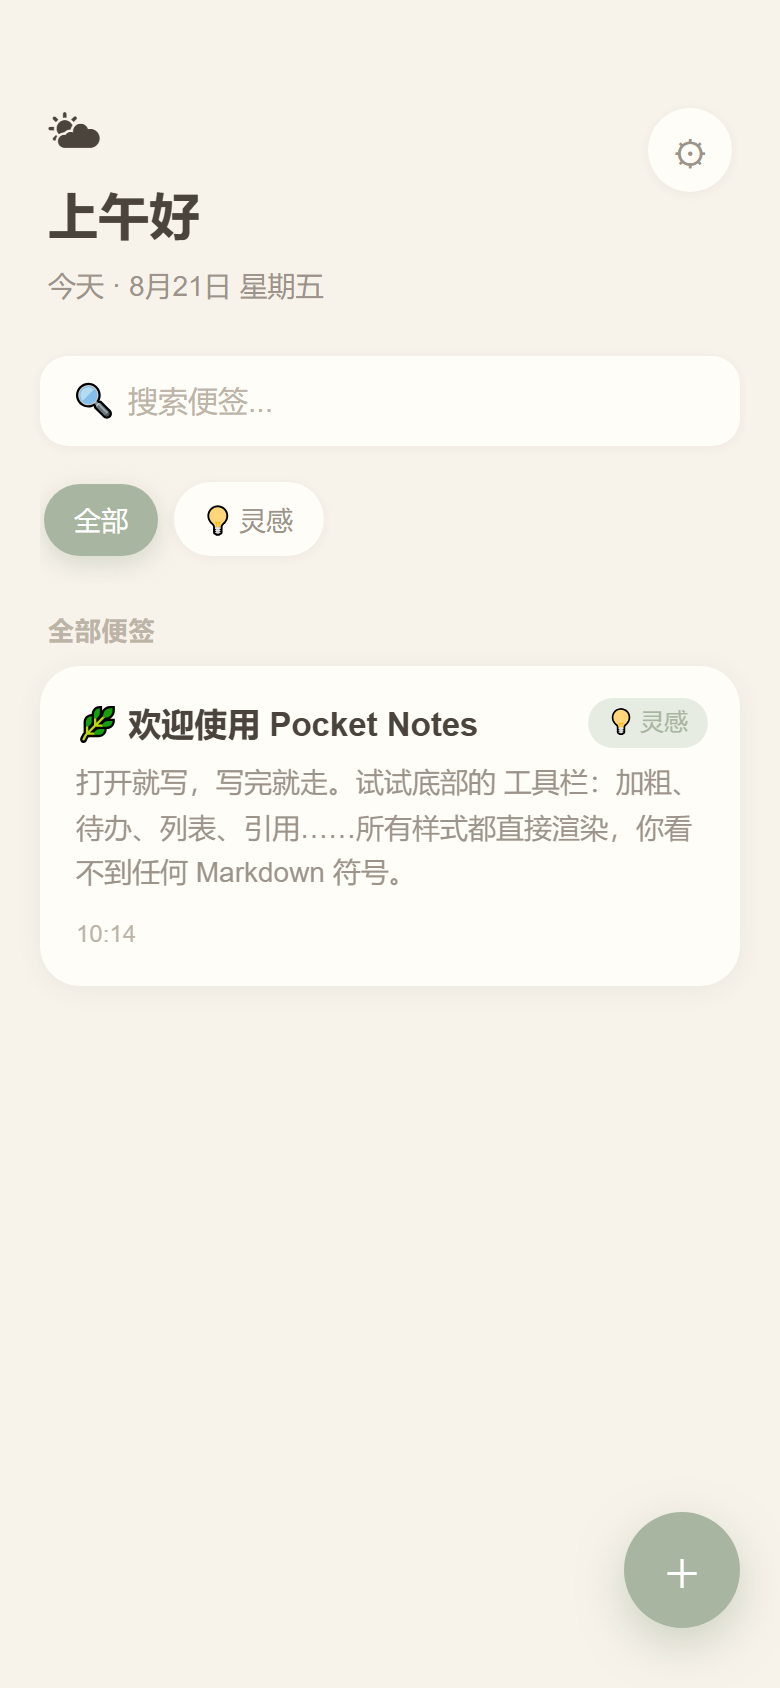
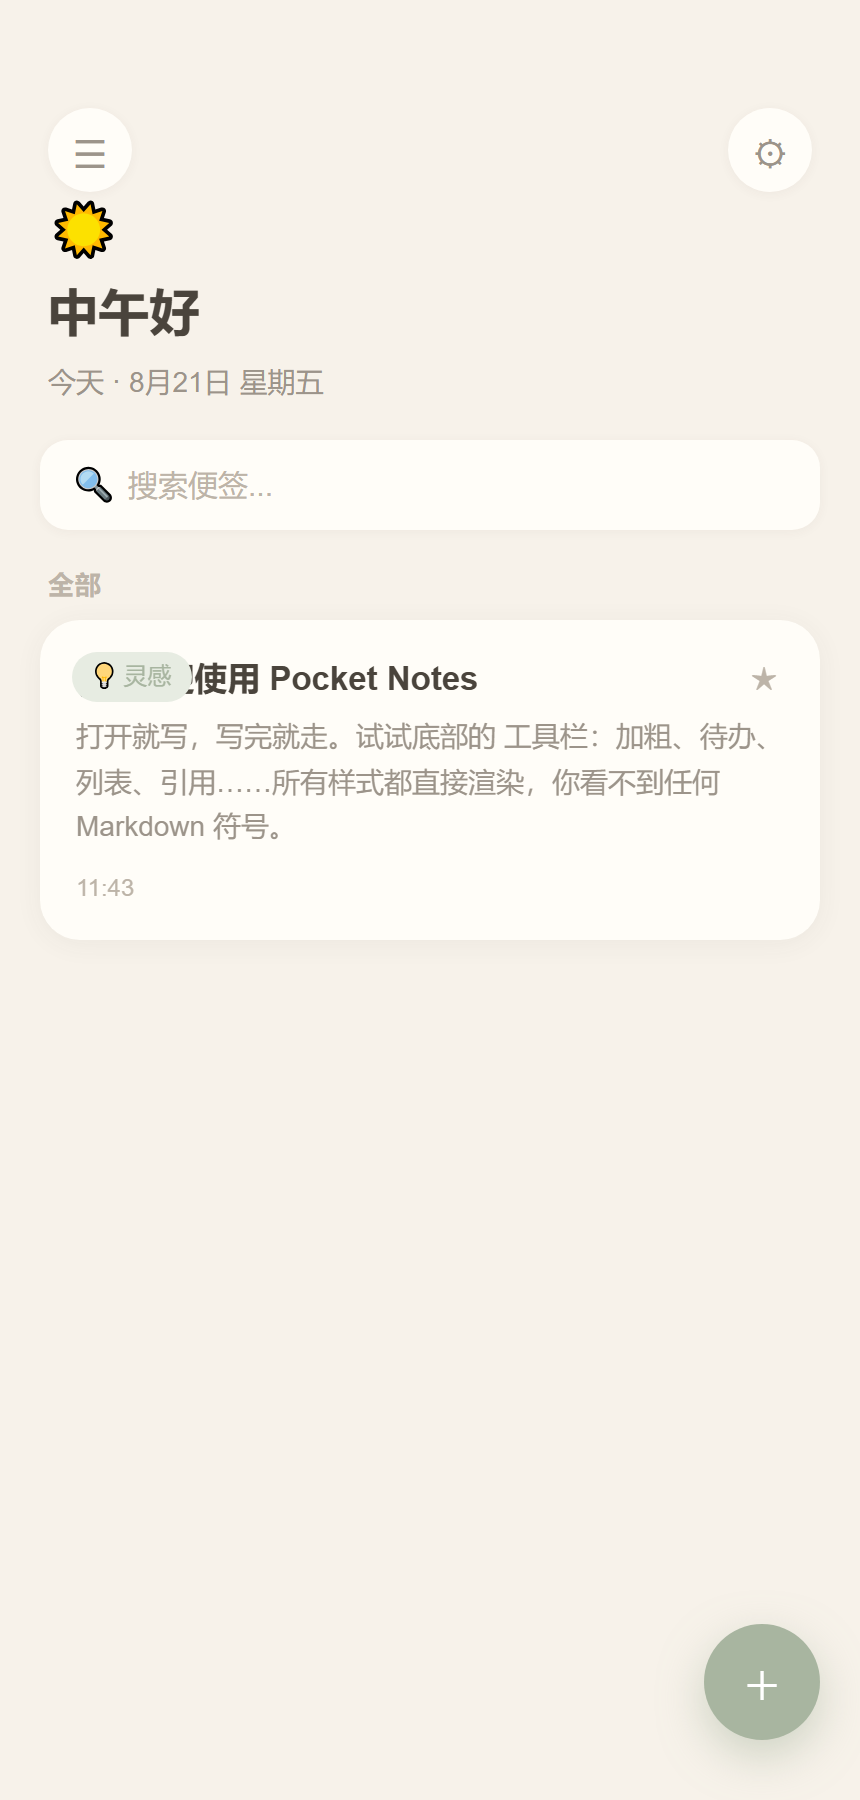
feat: 侧边栏分组 + 标签失焦自动保存 + 收藏功能

diff --git a/index.html b/index.html
@@ -85,16 +85,35 @@
   .search .mag{position:absolute;left:16px;top:50%;transform:translateY(-50%);
     color:var(--text-3);font-size:16px;}
 
-  .tags{display:flex;align-items:center;gap:8px;overflow-x:auto;overflow-y:hidden;
-    padding:14px 2px;min-height:46px;flex-wrap:nowrap;scrollbar-width:none;
-    -webkit-overflow-scrolling:touch;}
-  .tags::-webkit-scrollbar{display:none;}
-  .tag-chip{flex:0 0 auto;border:none;background:var(--surface);color:var(--text-2);
-    padding:9px 15px;border-radius:999px;font-size:13.5px;box-shadow:var(--shadow-soft);
-    display:flex;align-items:center;gap:6px;white-space:nowrap;
-    transition:all var(--dur) var(--ease);}
-  .tag-chip:active{transform:scale(.94);}
-  .tag-chip.on{background:var(--accent);color:#fff;box-shadow:0 4px 12px rgba(168,181,160,.4);}
+  /* ---------- 侧边栏 ---------- */
+  .sidebar{position:absolute;left:0;top:0;bottom:0;width:260px;max-width:80vw;background:var(--surface);z-index:200;
+    transform:translateX(-110%);transition:transform var(--dur) var(--ease);box-shadow:4px 0 24px rgba(0,0,0,.08);
+    display:flex;flex-direction:column;padding:50px 16px 24px;-webkit-overflow-scrolling:touch;}
+  .sidebar.open{transform:none;}
+  .sb-overlay{position:absolute;inset:0;background:rgba(0,0,0,.18);z-index:199;opacity:0;pointer-events:none;transition:opacity var(--dur);}
+  .sb-overlay.open{opacity:1;pointer-events:auto;}
+  .sb-head{display:flex;align-items:center;gap:12px;margin-bottom:22px;padding:0 4px;}
+  .sb-icon{width:42px;height:42px;border-radius:12px;background:var(--bg);display:flex;align-items:center;justify-content:center;font-size:22px;box-shadow:var(--shadow-soft);}
+  .sb-title{font-size:17px;font-weight:700;color:var(--text);}
+  .sb-sub{font-size:12px;color:var(--text-3);margin-top:2px;}
+  .sb-section-title{font-size:11px;color:var(--text-3);font-weight:600;letter-spacing:.6px;text-transform:uppercase;margin:18px 4px 8px;}
+  .sb-groups{display:flex;flex-direction:column;gap:3px;flex-shrink:0;max-height:45%;overflow-y:auto;}
+  .sb-groups::-webkit-scrollbar{display:none;}
+  .sb-group{display:flex;align-items:center;gap:12px;padding:10px 12px;border-radius:12px;cursor:pointer;transition:all var(--dur) var(--ease);color:var(--text-2);}
+  .sb-group:active{background:var(--accent-soft);}
+  .sb-group.active{background:var(--accent-soft);color:var(--text);}
+  .sb-group .sb-g-icon{font-size:18px;width:24px;text-align:center;}
+  .sb-group .sb-g-name{flex:1;font-size:15px;}
+  .sb-group .sb-g-count{margin-left:auto;font-size:12.5px;color:var(--text-3);min-width:24px;text-align:right;}
+  .sb-group.active .sb-g-count{color:var(--text-2);}
+  .sb-new-group{display:flex;align-items:center;gap:10px;width:100%;border:none;background:transparent;color:var(--text-3);padding:10px 12px;border-radius:12px;font-size:14.5px;text-align:left;transition:background var(--dur);font-family:inherit;}
+  .sb-new-group:active{background:var(--accent-soft);color:var(--text);}
+  .sb-div{height:1px;background:var(--line);margin:16px 4px;}
+  .sb-tags{display:flex;flex-wrap:wrap;gap:8px;padding:0 2px;overflow-y:auto;flex:1;min-height:0;align-content:flex-start;}
+  .sb-tags::-webkit-scrollbar{display:none;}
+  .sb-tag{border:none;background:var(--bg);color:var(--text-2);padding:7px 12px;border-radius:999px;font-size:13px;transition:all var(--dur);font-family:inherit;}
+  .sb-tag:active{background:var(--accent-soft);color:var(--text);}
+  .sb-tag.on{background:var(--accent);color:#fff;}
 
   .list-title{font-size:13px;color:var(--text-3);margin:14px 4px 6px;font-weight:600;letter-spacing:.4px;}
   .cards{display:flex;flex-direction:column;gap:12px;padding-bottom:110px;}
@@ -104,10 +123,14 @@
     animation:cardIn var(--dur) var(--ease) both;}
   .card:active{transform:scale(.985);box-shadow:0 1px 6px rgba(74,68,60,.05);}
   @keyframes cardIn{from{opacity:0;transform:translateY(10px) scale(.98);}to{opacity:1;transform:none;}}
-  .card-tag{position:absolute;top:16px;right:16px;font-size:12px;color:var(--accent);
+  .card-tag{position:absolute;top:16px;left:16px;font-size:12px;color:var(--accent);
     background:var(--accent-soft);padding:3px 10px;border-radius:999px;}
+  .card-star{position:absolute;top:13px;right:13px;width:30px;height:30px;border:none;border-radius:50%;
+    background:transparent;color:var(--text-3);font-size:16px;display:flex;align-items:center;justify-content:center;z-index:2;transition:all var(--dur) var(--ease);}
+  .card-star:active{transform:scale(.85);}
+  .card-star.on{color:#E8C25D;background:var(--surface-2);}
   .card-title{font-size:16.5px;font-weight:600;color:var(--text);
-    white-space:nowrap;overflow:hidden;text-overflow:ellipsis;padding-right:64px;}
+    white-space:nowrap;overflow:hidden;text-overflow:ellipsis;padding-right:40px;}
   .card-body{margin-top:5px;font-size:14px;color:var(--text-2);
     display:-webkit-box;-webkit-line-clamp:3;-webkit-box-orient:vertical;overflow:hidden;}
   .card-time{margin-top:10px;font-size:12px;color:var(--text-3);}
@@ -233,15 +256,34 @@
 <body>
 <div id="app">
 
+  <!-- 侧边栏 -->
+  <aside id="sidebar" class="sidebar">
+    <div class="sb-head">
+      <div class="sb-icon">📝</div>
+      <div>
+        <div class="sb-title">Pocket Notes</div>
+        <div class="sb-sub">本地便签</div>
+      </div>
+    </div>
+    <div class="sb-section-title">分组</div>
+    <div class="sb-groups" id="sbGroups"></div>
+    <button class="sb-new-group" id="btnNewGroup">+ 新建分组</button>
+    <div class="sb-div"></div>
+    <div class="sb-section-title">标签</div>
+    <div class="sb-tags" id="sbTags"></div>
+  </aside>
+  <div id="sbOverlay" class="sb-overlay"></div>
+
   <!-- 首页 -->
   <section id="home" class="page active">
     <div class="home-top">
-      <div>
-        <div class="greet-emoji" id="greetEmoji">🌤</div>
-        <div class="greet" id="greetText">下午好</div>
-        <div class="gdate" id="greetDate">今天 · 8月20日 星期四</div>
-      </div>
+      <button class="icon-btn" id="btnMenu" aria-label="菜单">☰</button>
       <button class="icon-btn" id="btnSettings" aria-label="设置">⚙</button>
+    </div>
+    <div style="padding:0 4px;">
+      <div class="greet-emoji" id="greetEmoji">🌤</div>
+      <div class="greet" id="greetText">下午好</div>
+      <div class="gdate" id="greetDate">今天 · 8月20日 星期四</div>
     </div>
 
     <div class="search">
@@ -249,7 +291,6 @@
       <input id="searchInput" type="text" placeholder="搜索便签...">
     </div>
 
-    <div class="tags" id="tagFilter"></div>
     <div class="list-title" id="listTitle">全部便签</div>
     <div class="cards" id="cardList"></div>
 
@@ -342,7 +383,19 @@
   "use strict";
   const $ = s => document.querySelector(s);
   const KEY = "pocketnotes.v1";
+  const GROUPS_KEY = "pocketnotes.groups.v1";
   const WEEK = ["日","一","二","三","四","五","六"];
+  const DEFAULT_GROUPS=[
+    {id:"all",name:"全部",icon:"🗂",type:"all"},
+    {id:"starred",name:"收藏",icon:"⭐",type:"starred"},
+    {id:"inbox",name:"Inbox",icon:"📥",type:"inbox"},
+    {id:"work",name:"工作",icon:"💼",tag:"工作"},
+    {id:"ai",name:"AI",icon:"🤖",tag:"AI"},
+    {id:"study",name:"学习",icon:"📚",tag:"学习"},
+    {id:"idea",name:"灵感",icon:"💡",tag:"灵感"},
+    {id:"temp",name:"临时",icon:"⏱",tag:"临时"},
+    {id:"prompt",name:"AI Prompt",icon:"🪄",tag:"AI Prompt"}
+  ];
 
   /* ---------- 数据层：每个便签唯一 UUID，Insert 一次后只 Update ---------- */
   function uid(){
@@ -364,8 +417,16 @@
       createdAt:Date.now(),updatedAt:Date.now()
     };
   }
+  let groups=loadGroups();
+  function loadGroups(){
+    try{const r=localStorage.getItem(GROUPS_KEY);if(r){const a=JSON.parse(r);if(Array.isArray(a)&&a.length)return a;}}catch(e){}
+    return DEFAULT_GROUPS.map(g=>({...g}));
+  }
   function persist(){
-    try{localStorage.setItem(KEY,JSON.stringify(notes));}catch(e){console.warn("save failed",e);}
+    try{
+      localStorage.setItem(KEY,JSON.stringify(notes));
+      localStorage.setItem(GROUPS_KEY,JSON.stringify(groups));
+    }catch(e){console.warn("save failed",e);}
   }
 
   /* ---------- 顶部问候 ---------- */
@@ -386,27 +447,49 @@
   }
 
   /* ---------- 列表渲染 ---------- */
-  let curQuery="",curTag="";
+  let curQuery="",curTag="",curGroupId="all";
   function allTags(){
     const set=new Set();
     notes.forEach(n=>(n.tags||[]).forEach(t=>set.add(t)));
     return [...set];
   }
+  function currentGroup(){return groups.find(g=>g.id===curGroupId)||groups[0];}
+  function countGroup(g){
+    if(!g)return 0;
+    if(g.type==="all")return notes.length;
+    if(g.type==="starred")return notes.filter(n=>n.starred).length;
+    if(g.type==="inbox")return notes.filter(n=>!(n.tags||[]).length).length;
+    if(g.tag)return notes.filter(n=>(n.tags||[]).includes(g.tag)).length;
+    return 0;
+  }
+  function matchesGroup(n,g){
+    if(!g||g.type==="all")return true;
+    if(g.type==="starred")return !!n.starred;
+    if(g.type==="inbox")return !(n.tags||[]).length;
+    if(g.tag)return (n.tags||[]).includes(g.tag);
+    return true;
+  }
+  function renderGroups(){
+    const box=$("#sbGroups");box.innerHTML="";
+    const curG=currentGroup();
+    groups.forEach(g=>{
+      const el=document.createElement("div");
+      el.className="sb-group"+(curG.id===g.id?" active":"");
+      el.innerHTML='<span class="sb-g-icon">'+esc(g.icon||"📁")+'</span><span class="sb-g-name">'+esc(g.name)+'</span><span class="sb-g-count">'+countGroup(g)+"</span>";
+      el.onclick=()=>{curGroupId=g.id;curTag="";closeSidebar();renderGroups();renderTags();renderList();};
+      box.appendChild(el);
+    });
+  }
   function renderTags(){
-    const box=$("#tagFilter");box.innerHTML="";
+    const box=$("#sbTags");box.innerHTML="";
     const tags=allTags();
-    if(tags.length){
-      const all=document.createElement("button");
-      all.className="tag-chip"+(!curTag?" on":"");all.textContent="全部";
-      all.onclick=()=>{curTag="";renderTags();renderList();};
-      box.appendChild(all);
-      tags.forEach(t=>{
-        const c=document.createElement("button");
-        c.className="tag-chip"+(curTag===t?" on":"");c.textContent=t;
-        c.onclick=()=>{curTag=(curTag===t?"":t);renderTags();renderList();};
-        box.appendChild(c);
-      });
-    }
+    if(!tags.length){box.innerHTML='<span style="color:var(--text-3);font-size:13px;padding:4px 2px;">还没有标签</span>';return;}
+    tags.forEach(t=>{
+      const c=document.createElement("button");
+      c.className="sb-tag"+(curTag===t?" on":"");c.textContent="#"+esc(t);
+      c.onclick=()=>{curTag=(curTag===t?"":t);renderTags();renderList();};
+      box.appendChild(c);
+    });
   }
   function plainPreview(n){
     const base=(n.plain||"").replace(/\n/g," ").trim();
@@ -427,7 +510,9 @@
   function renderList(){
     const list=$("#cardList");list.innerHTML="";
     const q=curQuery.trim().toLowerCase();
+    const g=currentGroup();
     let arr=notes.filter(n=>{
+      if(!matchesGroup(n,g))return false;
       if(curTag && !(n.tags||[]).includes(curTag))return false;
       if(q){
         const hay=((n.title||"")+" "+(n.plain||"")+" "+(n.tags||[]).join(" ")).toLowerCase();
@@ -436,7 +521,8 @@
       return true;
     }).sort((a,b)=>b.updatedAt-a.updatedAt);
 
-    $("#listTitle").textContent=curTag?("标签 · "+curTag):(q?"搜索结果":(arr.length?"全部便签":""));
+    let titleText=q?"搜索结果":(curTag?("标签 · "+curTag):g.name);
+    $("#listTitle").textContent=titleText;
     if(!arr.length){
       list.innerHTML='<div class="empty">还没有便签<br>点右下角的 ＋ 写第一张吧</div>';
       return;
@@ -445,10 +531,17 @@
       const c=document.createElement("div");
       c.className="card";c.style.animationDelay=(i*0.035)+"s";
       const tag=(n.tags&&n.tags[0])?'<span class="card-tag">'+esc(n.tags[0])+'</span>':"";
+      const starClass="card-star"+(n.starred?" on":"");
       c.innerHTML=tag+
+        '<button class="'+starClass+'" aria-label="收藏">★</button>'+
         '<div class="card-title">'+esc(n.title||"无标题")+'</div>'+
         '<div class="card-body">'+esc(plainPreview(n))+'</div>'+
         '<div class="card-time">'+timeLabel(n.updatedAt)+'</div>';
+      c.querySelector(".card-star").onclick=e=>{
+        e.stopPropagation();
+        n.starred=!n.starred;n.updatedAt=Date.now();
+        persist();renderGroups();renderList();
+      };
       c.onclick=()=>openEditor(n.id);
       list.appendChild(c);
     });
@@ -475,6 +568,13 @@
     setTimeout(()=>toolbar.classList.add("show"),260);
   }
 
+  function commitEdTagInput(){
+    const inp=document.querySelector("#edTags .ed-tag-input");
+    if(!inp)return;
+    const v=inp.value.trim().replace(/,$/,"");
+    if(v&&!currentTags.includes(v)){currentTags.push(v);renderEdTags();scheduleSave();}
+    else if(!v){inp.value="";}
+  }
   function renderEdTags(){
     const box=$("#edTags");box.innerHTML="";
     currentTags.forEach((t,i)=>{
@@ -489,10 +589,10 @@
     inp.onkeydown=e=>{
       if(e.key==="Enter"||e.key===","){
         e.preventDefault();
-        const v=inp.value.trim().replace(/,$/,"");
-        if(v&&!currentTags.includes(v)){currentTags.push(v);renderEdTags();scheduleSave();}
+        commitEdTagInput();
       }
     };
+    inp.onblur=()=>commitEdTagInput();
     box.appendChild(inp);
   }
 
@@ -502,6 +602,7 @@
     saveTimer=setTimeout(saveNow,500);
   }
   function saveNow(){
+    commitEdTagInput();
     if(!currentId)return;
     const n=notes.find(x=>x.id===currentId);
     if(!n)return;
@@ -516,6 +617,7 @@
   }
 
   function goBack(){
+    commitEdTagInput();
     toolbar.classList.remove("show");
     const title=titleEl.value.trim();
     const plain=editorEl.innerText.replace(/\n/g,"").trim();
@@ -530,7 +632,7 @@
     }
     currentId=null;
     showPage("home");
-    renderGreet();renderTags();renderList();
+    renderGreet();renderGroups();renderTags();renderList();
   }
 
   function deleteCurrent(){
@@ -539,7 +641,7 @@
     notes=notes.filter(x=>x.id!==currentId);
     persist();currentId=null;
     toolbar.classList.remove("show");
-    showPage("home");renderGreet();renderTags();renderList();
+    showPage("home");renderGreet();renderGroups();renderTags();renderList();
   }
 
   /* ---------- 富文本工具栏（WYSIWYG，无 Markdown 源码） ---------- */
@@ -673,6 +775,18 @@
   $("#btnSettings").onclick=()=>showPage("settings");
   $("#searchInput").oninput=e=>{curQuery=e.target.value;renderList();};
 
+  // 侧边栏
+  function openSidebar(){$("#sidebar").classList.add("open");$("#sbOverlay").classList.add("open");}
+  function closeSidebar(){$("#sidebar").classList.remove("open");$("#sbOverlay").classList.remove("open");}
+  $("#btnMenu").onclick=openSidebar;
+  $("#sbOverlay").onclick=closeSidebar;
+  $("#btnNewGroup").onclick=()=>{
+    const name=prompt("新建分组名称：");if(!name)return;
+    const icon=prompt("选一个图标（可选，默认 📁）：","📁")||"📁";
+    groups.push({id:"g_"+uid(),name:name.trim(),icon:icon.trim(),tag:name.trim()});
+    persist();renderGroups();
+  };
+
   // 设置：主题
   const themeSwitch=$("#themeSwitch");
   function applyTheme(t){
@@ -753,7 +867,7 @@
         const data=JSON.parse(r.result);
         if(!Array.isArray(data))throw new Error("格式错误");
         if(confirm("导入会覆盖当前所有便签，确定继续？")){
-          notes=data;origPersist();renderTags();renderList();
+          notes=data;persist();renderGroups();renderTags();renderList();
           alert("导入成功，共 "+notes.length+" 张便签");
         }
       }catch(err){alert("导入失败："+err.message);}
@@ -770,7 +884,7 @@
   $("#setBack").onclick=()=>showPage("home");
 
   // 初始
-  renderGreet();renderTags();renderList();
+  renderGreet();renderGroups();renderTags();renderList();
   window.addEventListener("beforeunload",()=>{if(currentId)saveNow();});
 })();
 </script>
